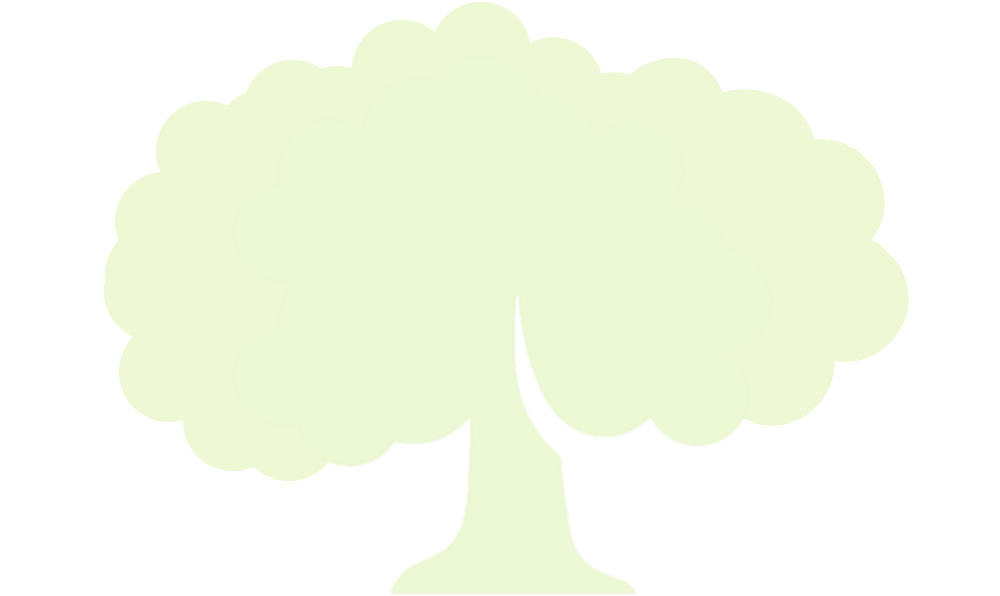
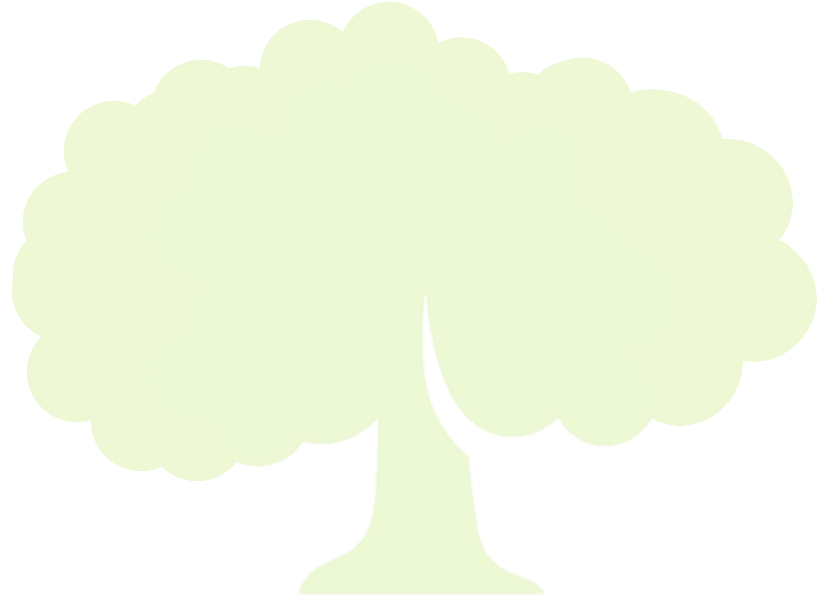
S03P31A205-47/Front-Dahyeon share페이지 반응형 제외 완성

diff --git a/vue_client/front/src/store/index.js b/vue_client/front/src/store/index.js
@@ -12,9 +12,11 @@ const store = new Vuex.Store({
     state: {
         user: null,
         isLogin: false,
+        msg:null,
     },
     getters: {
-        user: (state) => { return state.user; }
+        user: (state) => { return state.user; },
+        msg: (state) => {return state.msg;}
     },
     mutations: {
         SETUSER(state, user) { state.user = user; },
@@ -24,28 +26,33 @@ const store = new Vuex.Store({
         MUTATEUSERINFO(state, user) {
             state.user = user
         },
+        MUTATEUSMSG(state, msg){
+            state.msg = msg
+        }
     },
     actions: {
         login(context, signInfo) {
             axios.post(`http://127.0.0.1:8000/rest-auth/login/`, signInfo, { "Content-Type": "application-json" })
                 .then(res => {
-                    if (res.data.user) {
                         context.commit('MUTATEISLOGIN', true)
                         context.commit('MUTATEUSERINFO', res.data.user)
-                        alert("로그인 되었습니다.");
+                        // context.commit('MUTATEUSMSG',res.data.user.nickname+"님 환영합니다.")
+                        alert(res.data.user.nickname+"님 환영합니다.");
                         router.go(0);
-                    } else {
-                        alert(res.data.user);
-                    }
                 })
                 .catch(err => {
-                    console.log(err);
-                    alert("아이디 또는 비밀번호 실패입니다.");
+                    console.log(err.response.data);
+                    if(err.response.data.non_field_errors){
+                        alert(err.response.data.non_field_errors);
+                    }else if(err.response.data.email){
+                        alert(err.response.data.email);
+                    }
                 })
         },
-        logout(context) {
-            context.commit('MUTATEISLOGIN', false)
-            context.commit('MUTATEUSERINFO', {})
+        logout(store) {
+            alert(store.state.user.nickname+"님 안녕히 가세요")
+            store.commit('MUTATEISLOGIN', false)
+            store.commit('MUTATEUSERINFO', {})
             router.go(0);
         },
 
@@ -57,9 +64,15 @@ const store = new Vuex.Store({
                     console.log(res.data);
                     router.go(0);
                 })
-                .catch(err => {
-                    alert("회원가입에 실패하셨습니다.");
-                    console.log(err);
+                .catch((error) => {
+                    console.log(error.response.data);
+                    if(error.response.data.email){
+                        alert(error.response.data.email);
+                    }else if(error.response.data.password1){
+                        alert(error.response.data.password1)
+                    }else{
+                        alert("회원가입에 실패하셨습니다.");
+                    }
                 })
         },
     },

diff --git a/vue_client/front/src/components/Mainpage.vue b/vue_client/front/src/components/Mainpage.vue
@@ -1,29 +1,62 @@
 <template>
-  <div id="Main">
-    <!-- Mainpage 화면클때 -->
-    <div id="hill"  class="d-none d-sm-block">
-      <img src="@/assets/hill.png" style="max-width: -webkit-fill-available;">
-      <!-- <img src="@/assets/loading/wave.svg" height="60" width=""> -->
-      
+<div>
+    <div class="d-none d-sm-block " id="containermain">
+        <div class="box">
+            <div class="front">
+            <img src="@/assets/hill.png" style="max-width: -webkit-fill-available; height:100vh">
+            </div>
+            <div class="back">
+                <img src="@/assets/loading/wave.png" style="max-width: -webkit-fill-available;">
+            </div>
+            <div class="effect">
+                <img src="@/assets/loading/effect.svg">
+            </div>
+            <div class="mid">
+                <img src="@/assets/loading/logo.svg">
+            </div>
+        </div>
     </div>
-    
-    <!-- Mainpage 화면 작을때 -->
-    <div id="hill" class="d-sm-none">
+    <div class="d-sm-none" style="height: 30vh;">
       <img src="@/assets/hill_mini.png" style="max-width: -webkit-fill-available;">
     </div>
-  </div>
+</div>
 </template>
 
 <script>
 export default {
-  name: 'Mainpage',
+    name: 'testpage',
 }
 </script>
 
 <style>
-#hill{
-  height: 30vh;
-  
+#containermain{
+    margin-left: 0;
+    margin-right: 0; 
+    padding: 0;
+    max-width: -webkit-fill-available;
+    height: 100vh;
 }
-
+.box{
+    float: left;
+    position: relative;
+    max-width: -webkit-fill-available;
+    width:-webkit-fill-available;
+}
+.back{
+    position: absolute;
+    bottom: 0;
+    left: 0;
+    width:-webkit-fill-available;
+}
+.mid{
+    position: absolute;
+    top: 3vh;
+    height: -webkit-fill-available;
+    width: -webkit-fill-available;
+}
+.effect{
+    position: absolute;
+    top: 0;
+    left: 0;
+}
 </style>

diff --git a/vue_client/front/src/components/StoryshareList.vue b/vue_client/front/src/components/StoryshareList.vue
@@ -1,5 +1,16 @@
 <template>
     <v-row no-gutters id="storysharelist" align="center" style="width: 100vw; height: 100vh;">
+        <v-col>
+            <div class="back">
+                <img src="@/assets/loading/wave.png" style="max-width: -webkit-fill-available; position: absolute; bottom: 0;left: 0;">
+            </div>
+            <div class="tree">
+                <img src="@/assets/asset/tree.png" style="max-width: -webkit-fill-available; position: absolute; bottom: 0;left: 0;">
+            </div>
+            <div class="word">
+              <p style="font-family: 'UhBeeSeulvely'; font-size:60px; color:#3ba0a8;">ShareStory</p>
+            </div>
+        </v-col>
         <v-col id="iconright" cols="3">
             <v-btn
                 class="mx-2"
@@ -82,13 +93,14 @@
                 </v-icon>
             </v-btn>
         </v-col>
+        
     </v-row>
 </template>
 
 <script>
 export default {
   data: () => ({
-    num : 10,
+    num : 8,
   }),
 }
 </script>
@@ -116,7 +128,7 @@ export default {
       top: 0;
   }
   #gallery_layout {
-      width: 1000px;
+      width: 800px;
       margin: 0 auto;
   }
 
@@ -129,7 +141,7 @@ export default {
   .gallery_content {
       position: relative;
       float: left;
-      width: 20%;
+      width: 25%;
       overflow: hidden;
   }
 
@@ -226,4 +238,17 @@ export default {
       width: 100%;
   }
  }
+.tree{
+    position: absolute;
+    bottom: 0;
+    left: 50vh;
+    width:-webkit-fill-available;
+}
+.word{
+    position: absolute;
+    top: 10vh;
+    left: 0;
+    width:-webkit-fill-available;
+}
+
 </style>

diff --git a/vue_client/front/src/components/Login.vue b/vue_client/front/src/components/Login.vue
@@ -167,6 +167,20 @@
     </v-dialog>
     <!-- 회원가입 -->
     <Signup v-bind:signupdialog="signupdialog" v-on:close-signup="closeSignup" v-on:open-login="openLogin"/>
+    <!-- <v-alert
+      prominent
+      type="error"
+      :value="alert"
+    >
+      <v-row align="center">
+        <v-col class="grow">
+         {{this.$store.state.msg}}
+        </v-col>
+        <v-col class="shrink">
+          <v-btn @click="alert = false">Close</v-btn>
+        </v-col>
+      </v-row>
+    </v-alert> -->
   </v-row>
 </template>
 <script>
@@ -181,6 +195,7 @@ import store  from '../store/index'
        signupdialog : false,
        password: '',
        email:'',
+      //  alert: false,
     }),
 
     methods : {
@@ -204,6 +219,10 @@ import store  from '../store/index'
           'email': this.email
         }
         store.dispatch('login', signinInfo);
+        // alert(this.$store.state.msg)
+        // if(this.$store.state.msg==!""){
+        //   this.alert = true;
+        // }
       },
     },
   }

diff --git a/vue_client/front/src/components/MainpageBefore.vue b/vue_client/front/src/components/MainpageBefore.vue
@@ -1,0 +1,27 @@
+<template>
+  <div id="Main">
+    <!-- Mainpage 화면클때 -->
+    <div id="hill"  class="d-none d-sm-block">
+      <img src="@/assets/hill.png" style="max-width: -webkit-fill-available;">
+      <!-- <img src="@/assets/loading/wave.svg" height="60" width=""> -->
+    </div>
+    <!-- Mainpage 화면 작을때 -->
+    <div id="hill" class="d-sm-none">
+      <img src="@/assets/hill_mini.png" style="max-width: -webkit-fill-available;">
+    </div>
+  </div>
+</template>
+
+<script>
+export default {
+  name: 'Mainpage',
+}
+</script>
+
+<style>
+#hill{
+  height: 30vh;
+  
+}
+
+</style>

diff --git a/vue_client/front/src/views/Home.vue b/vue_client/front/src/views/Home.vue
@@ -1,16 +1,16 @@
 <template>
   <div >
-    <testpage/>
-    <!-- <Mainpage/> -->
+    <!-- <testpage/> -->
+    <Mainpage/>
   </div>
 </template>
 <script>
-import testpage from '@/components/testpage.vue'
-// import Mainpage from '@/components/Mainpage.vue'
+// import testpage from '@/components/testpage.vue'
+import Mainpage from '@/components/Mainpage.vue'
 export default {
   components:{
-  //  Mainpage,
-  testpage
+   Mainpage,
+  // testpage
   }
 }
 </script>
